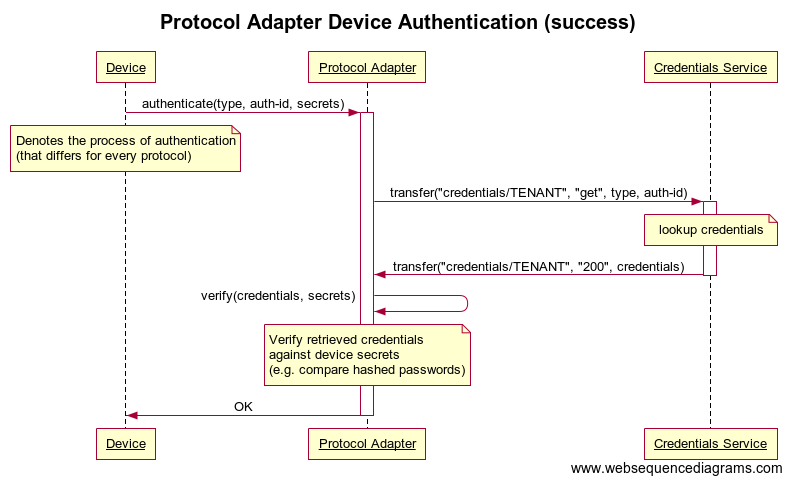
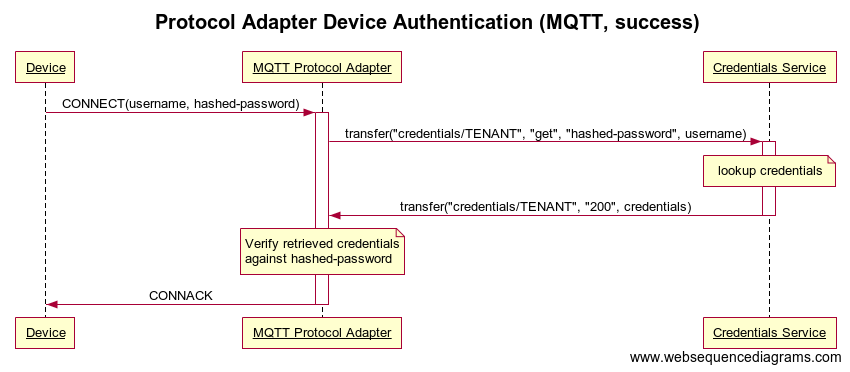
Changed the sequence diagram to use the MQTT adapter.

diff --git a/site/content/api/Credentials-API.md b/site/content/api/Credentials-API.md
@@ -320,9 +320,9 @@ The next example contains two [pre-shared secrets]({{< relref "#pre-shared-key" 
 
 Protocol Adapters are responsible for authenticating devices when they connect. The Credentials API provides the [Get Credentials]({{< relref "#get-credentials" >}}) operation to support Protocol Adapters in doing so as illustrated below:
 
-The following sequence diagram illustrates the flow of messages involved in a *Protocol Adapter* authenticating a device that provides it's authentication data.
-This is denoted as a (not directly existing) method call **authenticate** which is meant as a placeholder for the process of authentication. The details
-of providing the authentication data are protocol specific. 
+The following sequence diagram illustrates the flow of messages involved in a *Protocol Adapter* authenticating a device.
+This is shown for the *MQTT Protocol Adapter* as example how a device authenticates with a username and a hashed-password.
+The mechanism can be transfered to other protocols in a similar manner.
 
 ![Protocol Adapter authenticating Devices message flow](../protocolAdapterDeviceAuthentication_Success.png)
 
